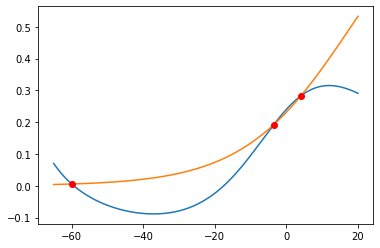
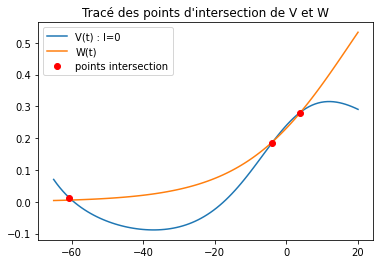
ajout toutes les fonctions annexes

diff --git a/NC-project.py b/NC-project.py
@@ -11,7 +11,7 @@ import matplotlib.pyplot as plt
 
 
 class ML():
-    """modelisation of Moris Lecar model
+    """modelisation of Moris Lecar model.
     """
     def __init__(self):
         self.V = linspace(-65,20,1000)
@@ -54,48 +54,76 @@ class ML():
     
     #==========================================================================
     def isoclines(self, Imin, Imax, nI):
-        """draw model's isoclines, for n different values of I between Imin and Imax
+        """show impact of gamma variation
         """
         V=self.V
         color=['r-', 'y-', 'g-', 'purple', 'black']
         h=(Imax-Imin)//nI
+        i_c=0
+        legend=[]
         for I in range(Imin, Imax, h ):
-            plt.plot(V, self.V_null(V, I), (10*color)[I%4])
-            print(I)
-            print("c", I%h)
+            plt.plot(V, self.V_null(V, I), color[i_c%len(color)])
+            i_c+=1
+            legend.append(f"V(t) : I={I}")
         plt.plot(V, self.w_inf(V), "b-")
-        plt.legend(['V(t) : I=0', 'V(t) : I=25', 'V(t) : I=75', 'V(t) : I=100', 'W(t)'])
+        legend.append("W(t)")
+        plt.legend(legend)
         plt.title("Tracé des isoclines de W et de V \n pour différentes valeurs de I")
         plt.show()
+        
+    def middle_branche(self, Gmin, Gmax, nG):
+        """Tracé de W pour différentes valeurs de gamma
+        """
+        V=self.V
+        legend=[]#initialisation légende
+        color=['r-', 'y-', 'g-', 'purple', 'black']
+        i_c=0#compteur pour indice couleur
+        for G in linspace(Gmin, Gmax, nG):
+            self.gamma = G #changement valeur de gamma
+            plt.plot(V, self.W_null(V), color[i_c%len(color)])
+            i_c+=1
+            legend.append(f"W(t) : gamma={G}")
+        #plt.plot(V, self.w_inf(V), "b-")
+        plt.legend(legend)
+        plt.title("Tracé de W pour différentes valeurs de gamma")
+        plt.show()
+        self.gamma=0.04 #réinitialisation de gamma
     
     def V_intersept(self, iso1, iso2):
-        """return nulcline intersection coordinates.
+        """return nulcline intersection coordinates. Can be use to get intersection point of
+        any two fuctions iso1 and iso2
         """
         #https://askcodez.com/intersection-de-deux-graphes-en-python-trouvez-la-valeur-x.html
-        Vl = linspace(-65, -40, 1000)
-        Vr = linspace(-40, 20, 1000)
-        V = linspace(-65, 20, 100)
-        f = iso2(V)
+        V = linspace(-65, 20, 100) #abscisse
+        f = iso2(V, 0)
         g = iso1(V)
         
         plt.plot(V, f, '-')
         plt.plot(V, g, '-')
         
-        idx = argwhere(diff(sign(f - g)) != 0).reshape(-1) + 0
-        print(f"""
-              a0 : ({idx[0]}, {iso1(idx[0])}, {iso2(idx[0])})
-              a1 : ({idx[1]}, {iso1(idx[1])})
-              a2 : ({idx[2]}, {iso1(idx[2])})
-              """)
-        plt.plot(V[idx], f[idx], 'ro')
-        plt.show()
-        intersections_l = [(Vl[i], f[i]) for i,_ in enumerate(zip(f,g)) if abs(f[i]-g[i])<10**-4]
-        intersections_r = [(Vr[i], f[i]) for i,_ in enumerate(zip(f,g)) if abs(f[i]-g[i])<10**-4]
-        print(intersections_l, intersections_r)
-        print(idx)
-        return intersections_l, intersections_r
-    
+        idx = argwhere(diff(sign(f - g)) != 0).reshape(-1) + 0 #get intersection abscisses
 
+        plt.plot(V[idx], f[idx], 'ro') #draw the red dots
+        plt.legend(['V(t) : I=0', 'W(t)', "points intersection"])
+        plt.title("Tracé des points d'intersection de V et W")
+        plt.show()
+        
+        intersections=[]
+        for i in range(len(V[idx])):
+            xai = V[idx][i]
+            yai = f[idx][i]
+            intersections.append((xai, yai))
+        return intersections
+    
+    def ML_pros(self):
+        """draw the V and W processus (integration of V' and W' in the ML model)
+        """
+        v = Symbol("v")
+        w = Symbol("w")
+        dw = self.gamma * (((1 + tanh((v - self.V2)/self.V4))/2)- w)/((cosh((v - self.V3)/(2*self.V4)))**-1)
+        dv = -self.gCa * ((1 + tanh((v - self.V1)/self.V2))/2) * (v - self.ECa) - self.gK * w * (v - self.ECa) - self.gL* (v-self.EL) + self.I
+        return [Integral(dw, v)]
+        
     def jacobienne(self, I):
         """Returne the symbolic expression of the ML system's Jacobienne
         """
@@ -106,15 +134,6 @@ class ML():
         J = [[dv.diff(v), "-------------", dv.diff(w)],[dw.diff(v), "-------------", dw.diff(w)]]
         return J
     
-    def ML_pros(self):
-        """
-        """
-        v = Symbol("v")
-        w = Symbol("w")
-        dw = self.gamma * (((1 + tanh((v - self.V2)/self.V4))/2)- w)/((cosh((v - self.V3)/(2*self.V4)))**-1)
-        dv = -self.gCa * ((1 + tanh((v - self.V1)/self.V2))/2) * (v - self.ECa) - self.gK * w * (v - self.ECa) - self.gL* (v-self.EL) + self.I
-        return [Integral(dw, v)]
-        
     def J(self, v, w):
         """Calculate the Jacobienne of ML system, based on ML.jacobienne() output expression
         """
@@ -126,23 +145,40 @@ class ML():
     def steady_point(self):
         """Determinates the nature of steady states
         """
-        equilibre = V_intersept(self.w_inf(V), self.V_nullcline())
+        #----
         det = [] #déterminants
         vp = [] #valeur propres
         tr = [] #trace
-        #----remplissage de boucle
-        
+        intersept = self.V_intersept(self.w_inf, self.V_null)
+        #----
+        for dot in intersept:
+            xai=dot[0]
+            yai=dot[1]
+            jac = ml.J(xai, yai) #jacobienne au point dot
+            det.append(linalg.det(jac)) #déterminant
+            vp.append(linalg.eigvals(jac)) #valeur propre
+            tr.append(sum(vp[-1])) #trace
+            
         #----interprétation des résultats
-        for i in range (len(l)):
-            if l[i] > 0:
-                print(f"j {i} n'est pas un point selle")
-            else:
-                print(f"j {i} est un point selle")
+        for i in range (len(intersept)): #pour chaque points
+            #----
+            if all([vpi > 0 for vpi in vp[i]]): print(f" {intersept[i]} minimum, instable")
+            elif all([vpi < 0 for vpi in vp[i]]): print(f" {intersept[i]} maximum, stable")
+            else : print(f" {intersept[i]} point selle, instable")
+            #----
+        if tr[i]**2 < 4*det[i]: print(f"{intersept[i]} est une spirale")
+        else: print(f"{intersept[i]} est indéterminé (un neud ?)")
+
 
 
 
 if __name__ == '__main__':
     
     ml = ML()
+    #ml.isoclines(0, 100, 4)
+    #ml.steady_point()
+    ml.middle_branche(0.001, 0.04, 4)
     ml.isoclines(0, 100, 4)
+    #print(ml.V_intersept(ml.w_inf, ml.V_null))
+    ml.steady_point()
    

diff --git a/NC-PROJET.py b/NC-PROJET.py
@@ -213,7 +213,7 @@ class ML():
                 print(f"j {i} n'est pas un point selle")
             else:
                 print(f"j {i} est un point selle")
-"""
+
 if __name__ == '__main__':
     
     V = linspace(-65,20,1000) #abscisse
@@ -264,7 +264,6 @@ if __name__ == '__main__':
     
 
     
-  """  
 
 
 
